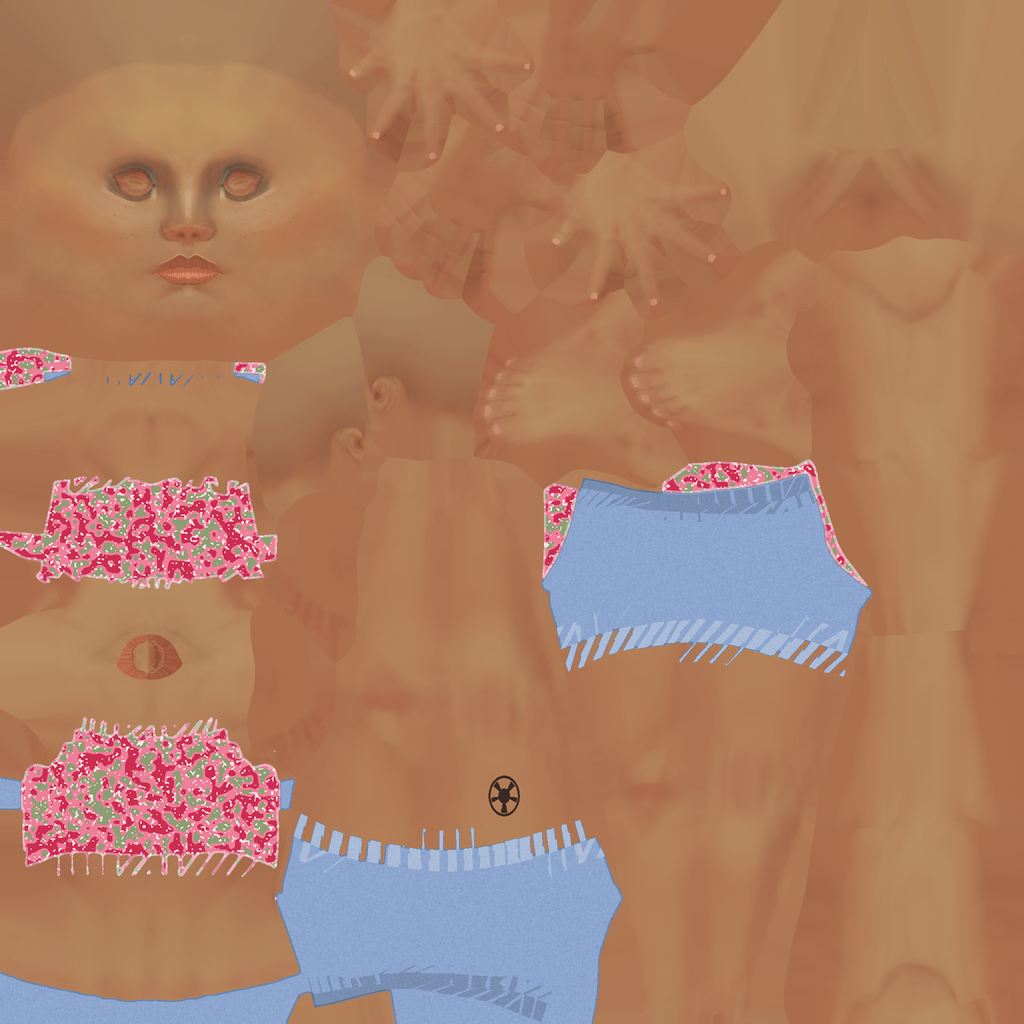
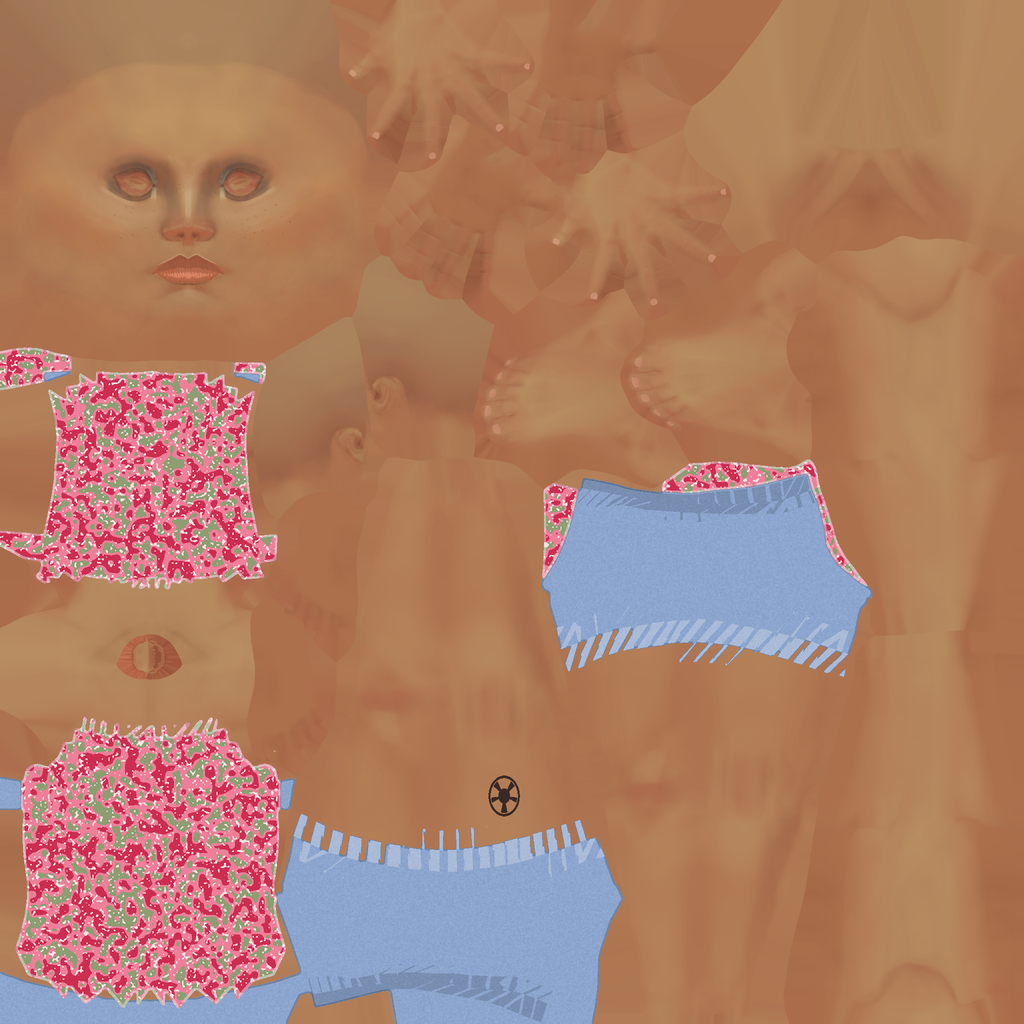
No bikinis: one-piece swimsuits throughout, and the page image reshot
Marc: remove the bikini options, he does not want to offend anyone. Doing that in the menu only
would have left the beach crowd of forty still wearing them, so it is removed everywhere:

  * the four bikini textures are gone, replaced by four more one-pieces in the same colours -
    black, teal, pink, floral - so the crowd keeps the same spread of six outfits it had
  * SkinnedPeople.BODIES, the right-click menu and pipeline/briefs.py list only one-pieces
  * brief_gen.py no longer suggests bikinis to the model writing briefs, and now rejects a brief
    that asks for one, next to the existing rules about hats and wetsuits
  * the player's own top was a bikini top - the most visible outfit in the game and the face of
    the gallery page - and is now a vest in the same floral fabric, so she is the same character

Two things this turned up. tools/paint_variants.py reseeded its noise once for the whole run, so
editing the variant list rewrote every texture after the edit; each variant now seeds from its
own name, and the unrelated male and casual textures are untouched. And tools/paint_player3.py
had been writing to game/core/characters/assets/, a path that stopped existing at the
segment-first refactor - it has been broken since, and simply errored rather than repaint.

docs/assets/game-menu.jpg reshot: the hero image on the public page was listing four bikinis.
Beach, street and coast build clean; both menu self-tests pass.
[…]

Changed region(s): [[0.0, 0.8125, 0.2812, 1.0], [0.0312, 0.3438, 0.25, 0.5]]

diff --git a/pipeline/brief_gen.py b/pipeline/brief_gen.py
@@ -46,13 +46,13 @@ Clothing is the point of these briefs. "outfit_mix" is the field that matters mo
 garments and colours from the list above and say how they are distributed. Be specific about
 proportions and about what is absent.
 
-  good: "black and navy one-pieces on most of the women, two floral bikinis, trunks nearly all blue"
+  good: "black and navy one-pieces on most of the women, two floral ones, trunks nearly all blue"
   good: "white tees over jeans dominate, one red tee, no shorts at all"
   weak: "colourful swimwear"                      (names nothing)
   weak: "a mix of outfits"                        (says nothing)
-  weak: "T_F_bikini_pink on half the women"       (asset ids belong in code, not a brief)
+  weak: "T_F_onepiece_pink on half the women"     (asset ids belong in code, not a brief)
 
-Write every brief the way you would say it to a person: "pink bikinis", not "T_F_bikini_pink".
+Write every brief the way you would say it to a person: "pink one-pieces", not "T_F_onepiece_pink".
 
 Give every brief a different clothing story: one colour dominating, two colours clashing, a single
 outfit repeated across the crowd, deliberately drab, one bright figure among muted ones, colours
@@ -87,13 +87,13 @@ def parse_array(text: str) -> list:
     return json.loads(m.group(0))
 
 
-GARMENT_WORDS = {"bikini": "bikini", "onepiece": "one-piece", "trunks": "trunks",
+GARMENT_WORDS = {"onepiece": "one-piece", "trunks": "trunks",
                  "tee": "tee", "jeans": "jeans", "chinos": "chinos", "shorts": "shorts"}
 
 
 def plain_words(text: str) -> str:
     """Turn any asset id that slipped through into the words a person would use:
-    T_F_bikini_pink -> "pink bikini", T_M_tee_white_jeans -> "white tee with jeans"."""
+    T_F_onepiece_pink -> "pink one-piece", T_M_tee_white_jeans -> "white tee with jeans"."""
     def one(m):
         parts = m.group(0).split("_")[2:]          # drop the T_F_ / T_M_ prefix
         garment = GARMENT_WORDS.get(parts[0], parts[0])
@@ -121,6 +121,7 @@ def check(raw: dict, world: str) -> list:
                       ("hat", "no hat assets"), ("cap", "no hat assets"), ("sunglass", "no eyewear assets"),
                       ("surfboard", "props layer, not characters"), ("dog", "no animal assets"),
                       ("wetsuit", "no wetsuit outfit"),
+                      ("bikini", "the game has one-piece swimsuits only"),
                       ("elderly", "one adult body per sex"), ("teen", "one adult body per sex")):
         if word in blob:
             bad.append(f"mentions {word!r}: {why}")
@@ -139,7 +140,7 @@ def check(raw: dict, world: str) -> list:
         if body not in CHAR_BODY_TYPES:
             bad.append(f"body type {body!r} does not exist (have: {CHAR_BODY_TYPES})")
     # clothing is the point: the outfit mix has to name real garments, not gesture at "colourful swimwear"
-    garments = {"beach": ["bikini", "one-piece", "onepiece", "trunks", "swimsuit"],
+    garments = {"beach": ["one-piece", "onepiece", "trunks", "swimsuit"],
                 "street": ["tee", "t-shirt", "jeans", "chinos", "shorts"]}[world]
     colours = ["pink", "teal", "black", "floral", "red", "navy", "blue", "white", "green"]
     om = str(raw.get("outfit_mix", "")).lower()

diff --git a/tools/paint_variants.py b/tools/paint_variants.py
@@ -84,15 +84,23 @@ top_band = (np.isin(region, [5, 6]) & (y > 0.705 * H) & (y < 0.77 * H)) | grey_t
 bot_band = (np.isin(region, [1, 2, 3]) & (y > 0.455 * H) & (y < 0.545 * H)) | grey_bot
 one_piece = (np.isin(region, [1, 4, 5, 6]) & (y > 0.455 * H) & (y < 0.79 * H)) | grey
 mt, mb, mo = clean(top_band), clean(bot_band), clean(one_piece)
+# One-piece swimsuits only (Marc, 2026-09-17: no bikinis in the game). The colours are the ones
+# the bikinis used, so the crowd keeps the same spread of six; `mt`/`mb` - the separate top and
+# bottom bands - are left above because the male trunks below use `mb`'s equivalent.
+#
+# Each variant reseeds from its own name, so the fabric noise of one does not depend on what is
+# listed before it. Without that, editing this list rewrites every texture after the edit.
 variants = [
-    ("F_bikini_pink", [(mt, fabric([0.95, 0.35, 0.55], rng)), (mb, fabric([0.95, 0.35, 0.55], rng))]),
-    ("F_bikini_teal", [(mt, fabric([0.15, 0.65, 0.65], rng)), (mb, fabric([0.15, 0.65, 0.65], rng))]),
-    ("F_bikini_black", [(mt, fabric([0.08, 0.08, 0.1], rng)), (mb, fabric([0.08, 0.08, 0.1], rng))]),
-    ("F_bikini_floral", [(mt, fabric([0.2, 0.4, 0.8], rng, "floral")), (mb, fabric([0.2, 0.4, 0.8], rng, "floral"))]),
-    ("F_onepiece_red", [(mo, fabric([0.85, 0.15, 0.2], rng))]),
-    ("F_onepiece_navy", [(mo, fabric([0.1, 0.18, 0.45], rng, "stripes"))]),
+    ("F_onepiece_red", [(mo, [0.85, 0.15, 0.2], None)]),
+    ("F_onepiece_navy", [(mo, [0.1, 0.18, 0.45], "stripes")]),
+    ("F_onepiece_black", [(mo, [0.08, 0.08, 0.1], None)]),
+    ("F_onepiece_teal", [(mo, [0.15, 0.65, 0.65], None)]),
+    ("F_onepiece_pink", [(mo, [0.95, 0.35, 0.55], None)]),
+    ("F_onepiece_floral", [(mo, [0.2, 0.4, 0.8], "floral")]),
 ]
-for name, mc in variants:
+for name, spec in variants:
+    vr = np.random.default_rng(abs(hash(name)) % (2 ** 31))
+    mc = [(mask, fabric(col, vr, pat) if pat else fabric(col, vr)) for mask, col, pat in spec]
     Image.fromarray((paint(arr, mc, [1.0, 0.97, 0.93]) * 255).astype(np.uint8)).resize((512, 512), Image.LANCZOS).save(OUT + "T_%s.png" % name)
     print("wrote", name)
 # ---------------- male ----------------

diff --git a/tools/paint_player3.py b/tools/paint_player3.py
@@ -22,7 +22,12 @@ grey_top |= _rest & (yy < 1300)
 grey_shorts |= _rest & (yy >= 1300)
 # garments by body height, clean edges from the interpolated height map
 shorts = (np.isin(region, [1, 2, 3, 4]) & (y > 0.755) & (y < 1.045)) | grey_shorts
-top = (np.isin(region, [5, 6]) & (y > 1.215) & (y < 1.40)) | grey_top
+# A vest rather than a bikini top (Marc, 2026-09-17): the band now runs from the shorts'
+# waistband up, instead of starting at 1.215 and leaving the midriff bare. Same floral fabric,
+# so she is still the same character.
+# region 4 is the lower abdomen - the swimsuit mask in paint_variants.py uses [1, 4, 5, 6] for
+# the same reason. Without it the vest stops above the navel.
+top = (np.isin(region, [4, 5, 6]) & (y > 1.045) & (y < 1.40)) | grey_top
 def clean(mask, blur=3.0):
     im = Image.fromarray((mask * 255).astype(np.uint8)).filter(ImageFilter.MaxFilter(3)).filter(ImageFilter.GaussianBlur(blur))
     return (np.asarray(im).astype(np.float32) / 255.0 > 0.5).astype(np.float32)
@@ -60,5 +65,5 @@ if tat_zone.any():
     motif = (d < 0.45) | ((d < 1.0) & (np.sin(ang * 5.0) > 0.55)) | ((d > 1.05) & (d < 1.2))
     out = np.where((motif & tat_zone)[..., None], out * 0.25 + np.array([0.05, 0.04, 0.06]), out)
     print("tattoo at", int(cx), int(cy))
-Image.fromarray((out * 255).astype(np.uint8)).resize((1024, 1024), Image.LANCZOS).save("/home/marc/dev/graphics-gen/game/core/characters/assets/T_Player_BaseColor.png")
+Image.fromarray((out * 255).astype(np.uint8)).resize((1024, 1024), Image.LANCZOS).save("/home/marc/dev/graphics-gen/game/segments/characters/assets/T_Player_BaseColor.png")
 print("shorts px", int(ms.sum()), "top px", int(mt.sum()))

diff --git a/pipeline/briefs.py b/pipeline/briefs.py
@@ -162,8 +162,8 @@ CHAR_SEX = ["F", "M"]
 CHAR_HAIR = {"F": ["long", "buns", "buzzed"], "M": ["buzz", "parted"]}
 CHAR_BODY_TYPES = ["slim", "average", "tall", "short", "stocky"]
 CHAR_OUTFITS = {
-    "beach": {"F": ["T_F_bikini_pink", "T_F_bikini_teal", "T_F_bikini_black", "T_F_bikini_floral",
-                    "T_F_onepiece_red", "T_F_onepiece_navy"],
+    "beach": {"F": ["T_F_onepiece_red", "T_F_onepiece_navy", "T_F_onepiece_black",
+                    "T_F_onepiece_teal", "T_F_onepiece_pink", "T_F_onepiece_floral"],
               "M": ["T_M_trunks_blue", "T_M_trunks_red", "T_M_trunks_floral", "T_M_trunks_black"]},
     "street": {"F": ["T_F_tee_white_jeans", "T_F_tee_red_shorts", "T_F_tee_navy_chinos",
                      "T_F_tee_green_shorts", "T_F_tee_black_jeans"],
